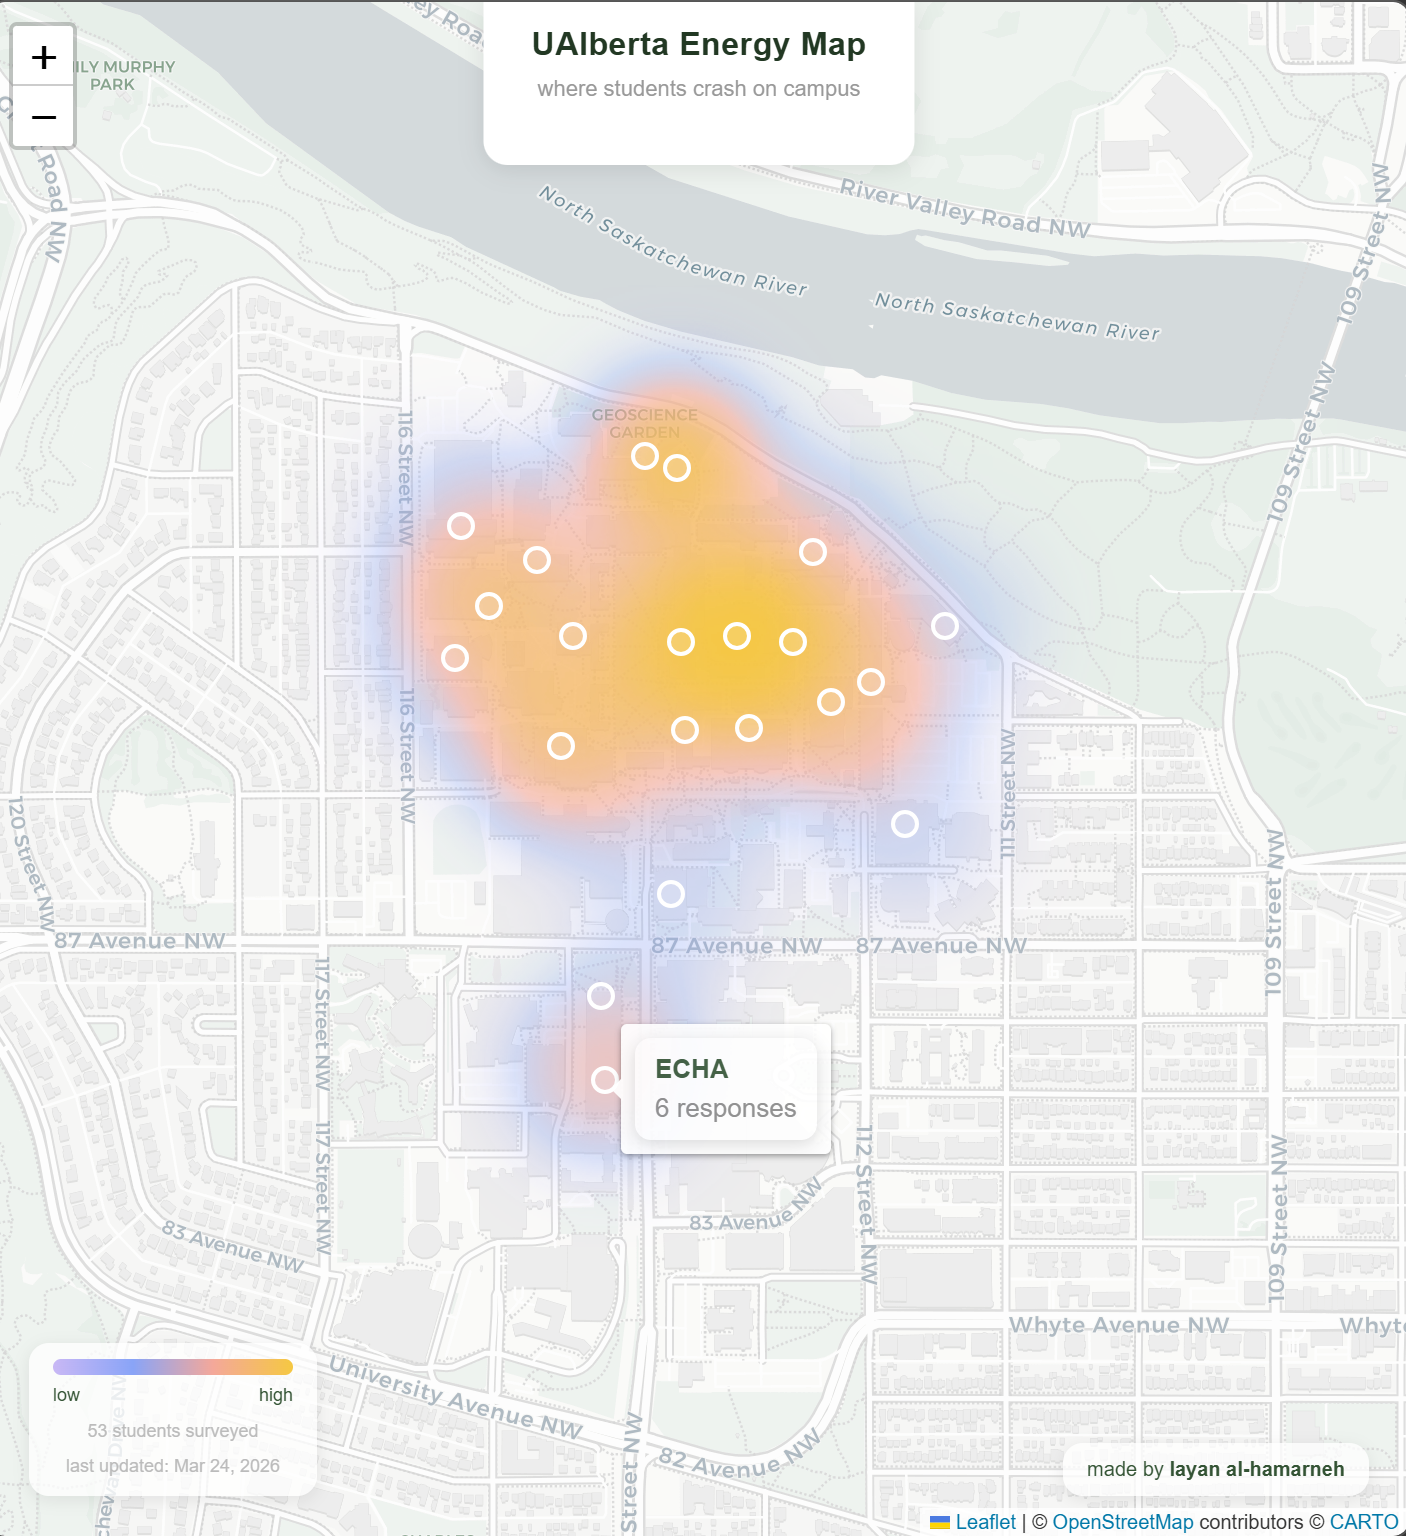
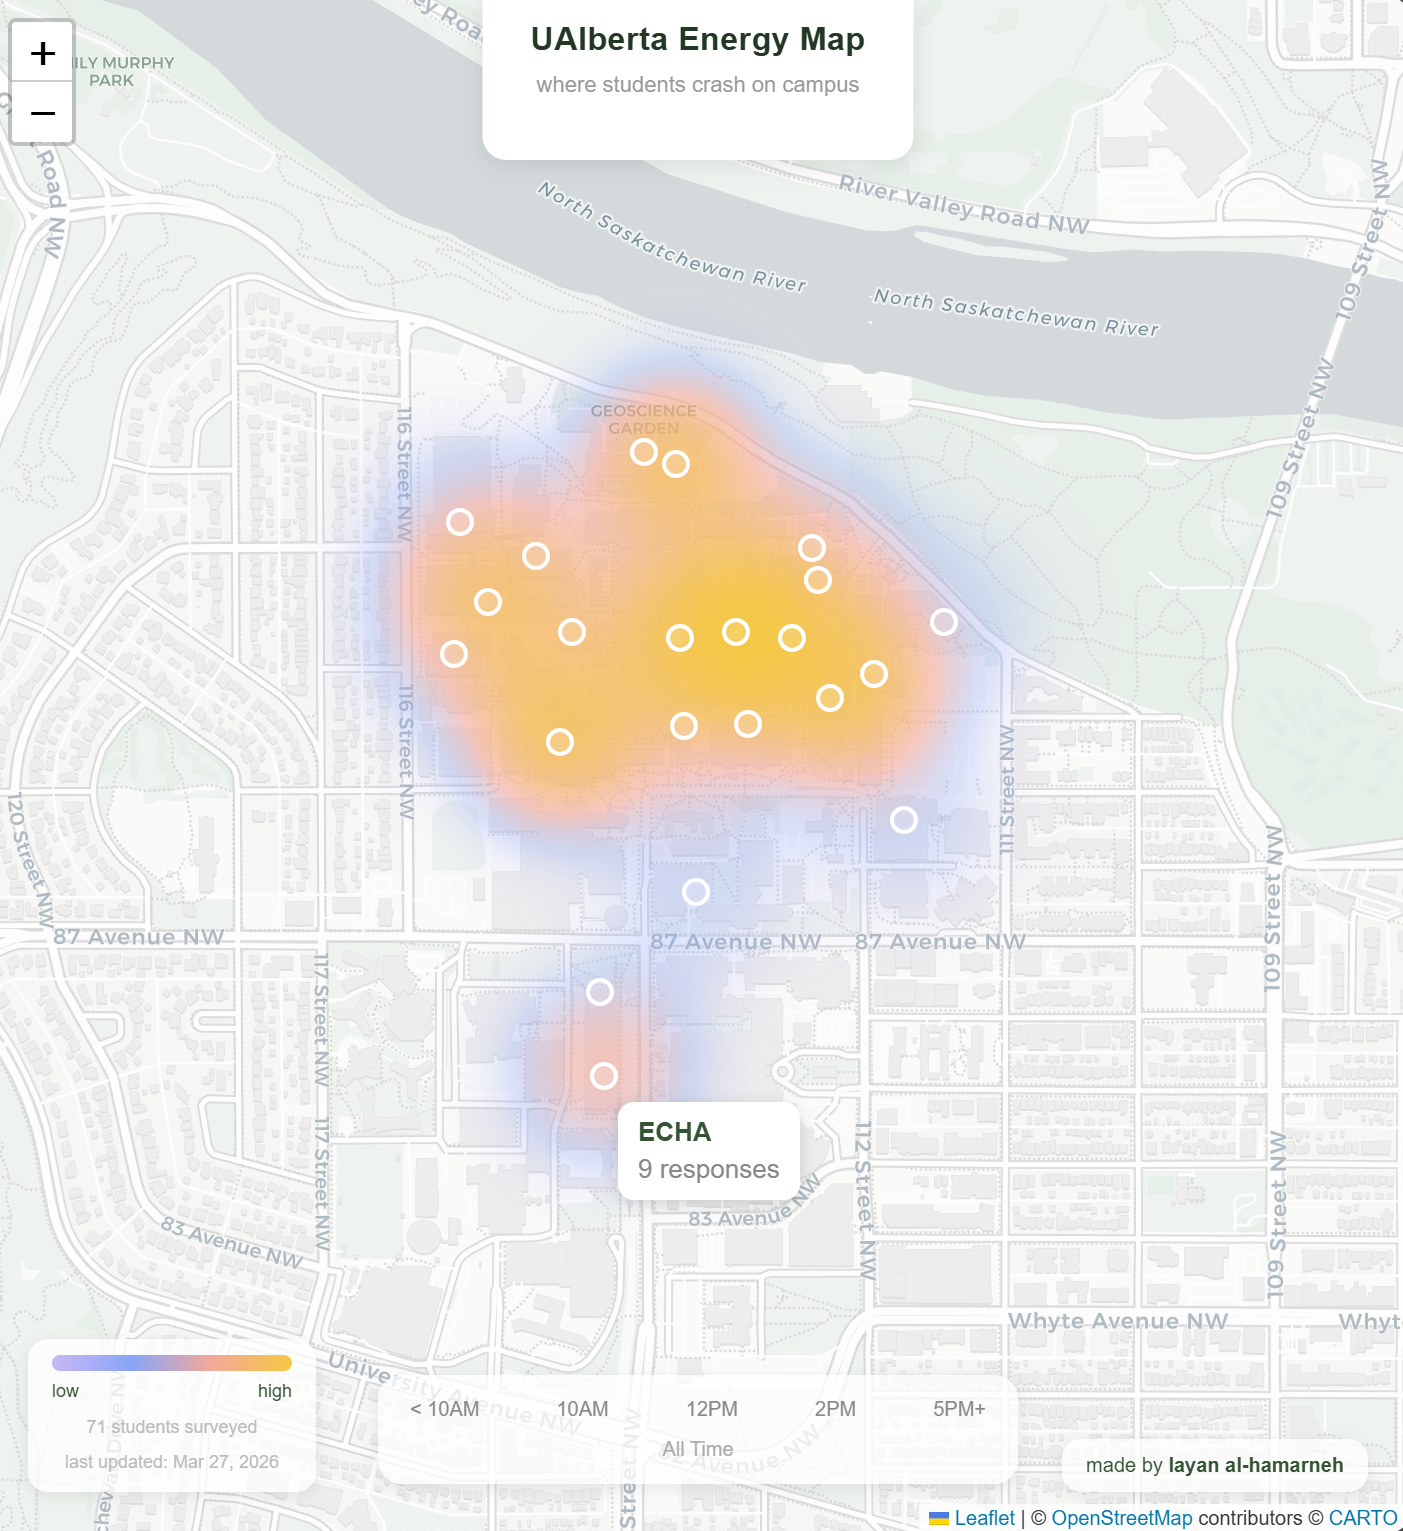
docs update readme

diff --git a/README.md b/README.md
@@ -1,23 +1,28 @@
 # UAlberta-Energy-Heatmap
-A visualized heatmap of campus, mapping where and when students hit an energy crash.
+A visualized heatmap of where (and when) UAlberta students crash the hardest on campus.
 
 
 ## How it works
 Survey responses are collected via Google Forms and pulled live into a Python script.
 Building names are parsed, matched, and geocoded automatically.
 Response counts per building are visualized as a heatmap overlay on an interactive map of campus.
+The timeline at the bottom lets you filter by time of day to see how crash patterns shift throughout the day.
 
 
-## Built with
+## Stack
 - Python, Pandas, Folium
-- Nominatim (geocoding)
-- RapidFuzz (fuzzy building name matching)
-- Google Forms + Sheets
+- Nominatim for geocoding
+- RapidFuzz for fuzzy building name matching
+- Google Forms + Sheets as the data source
 
 
 ## Data
-53+ UAlberta student responses. Ethics cleared by UAlberta REB under TCPS2 (2022).
+Over 71 UAlberta student responses. Ethics cleared by UAlberta REB under TCPS2 (2022).
 
 
-## Screenshot
+## Screenshots
 ![UAlberta Energy Map](image.png)
+<p><em>All time view.</em></p>
+
+![UAlberta Energy Map](image2.png)
+<p><em>Later than 5 PM crash window.</em><p>
